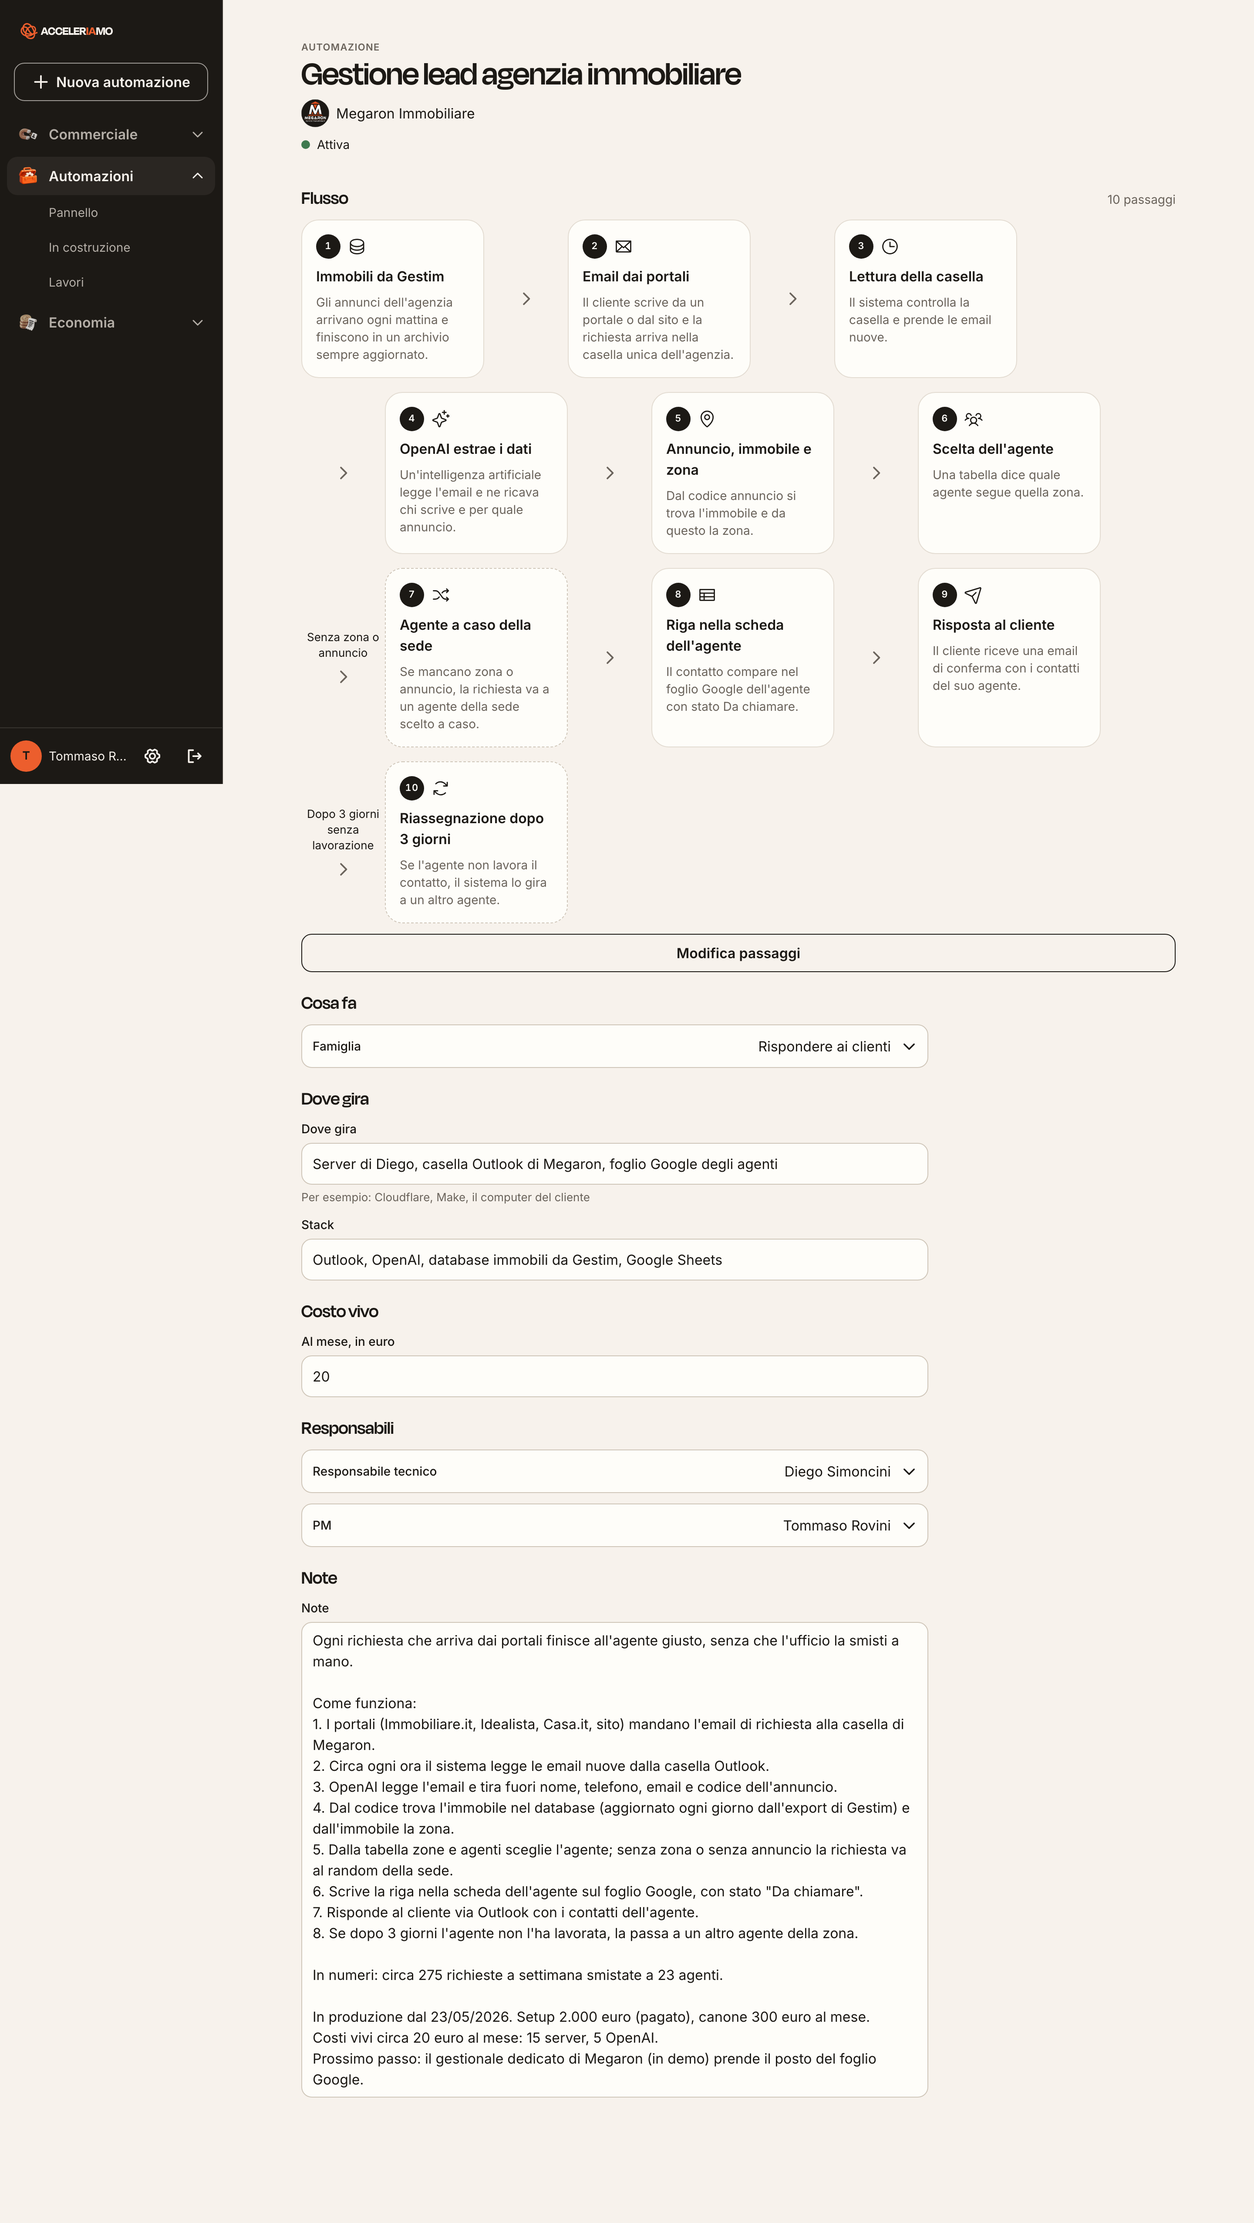
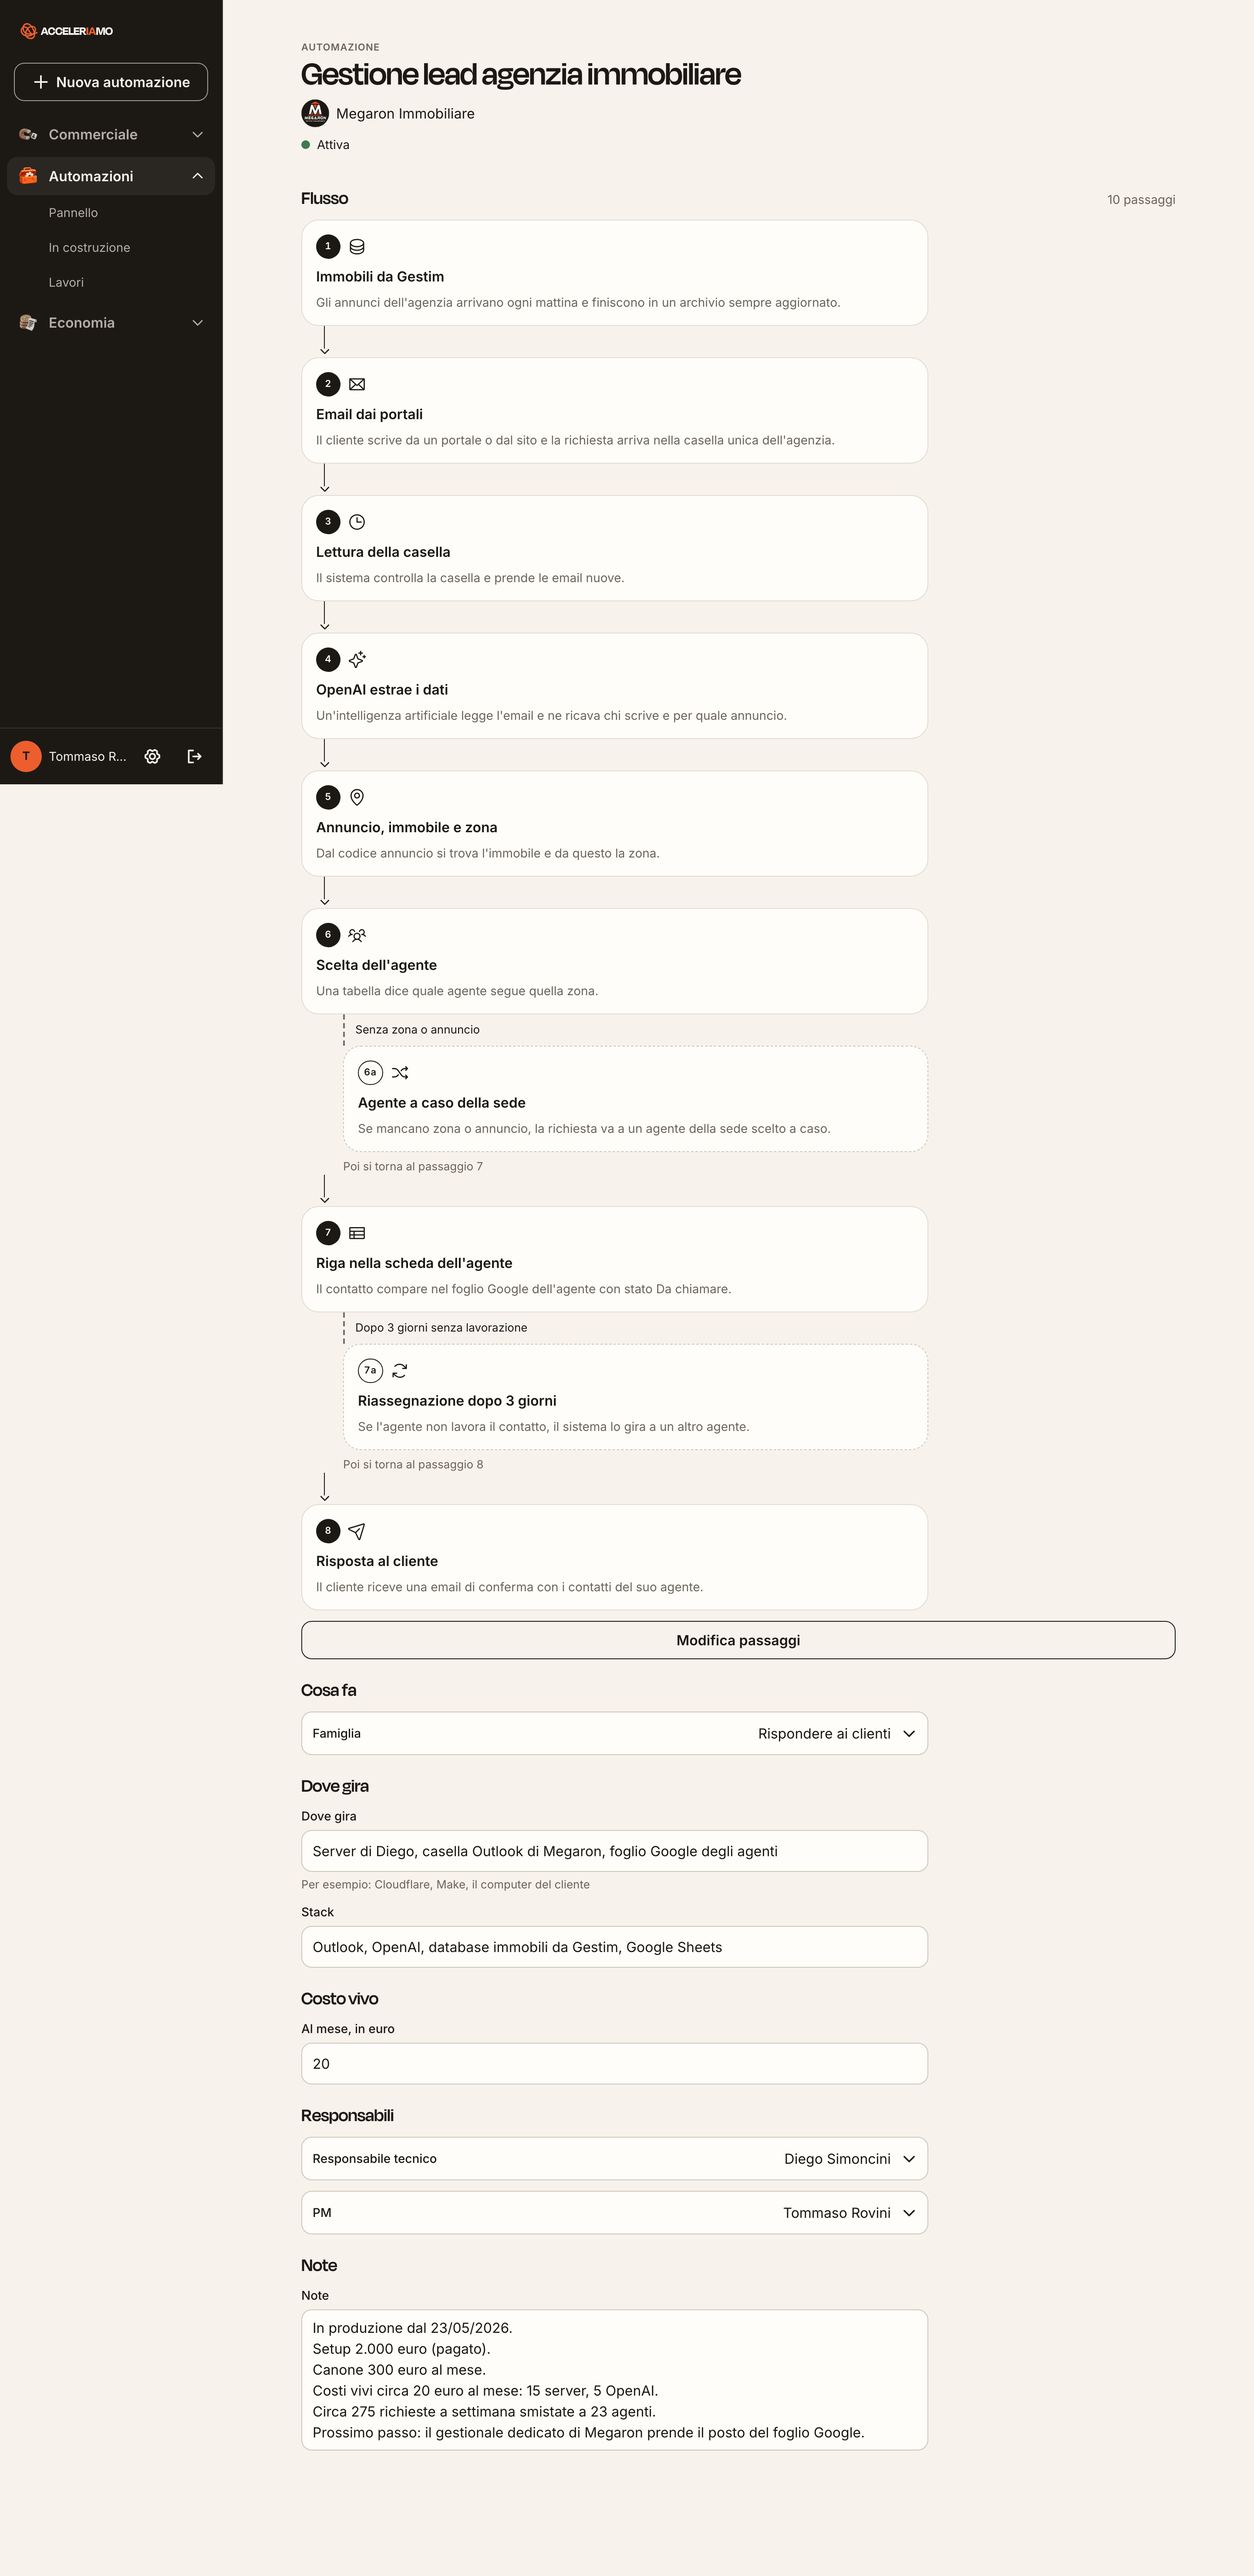
fix(automazioni): flusso in una colonna con rami sotto il passaggio d'origine, singolare nel Pannello
Claude-Session: https://claude.ai/code/session_017w2uS5WsPnidBRM6LYv1qi

diff --git a/src/pagine/automazioni/Flusso.tsx b/src/pagine/automazioni/Flusso.tsx
@@ -1,4 +1,4 @@
-import { ArrowsClockwise, CaretDown, CaretRight, Database, Envelope, Clock, Gear, MapPin, PaperPlaneTilt, Shuffle, Sparkle, Table, UsersThree } from "@phosphor-icons/react";
+import { ArrowsClockwise, CaretDown, Database, Envelope, Clock, Gear, MapPin, PaperPlaneTilt, Shuffle, Sparkle, Table, UsersThree } from "@phosphor-icons/react";
 import type { ComponentType } from "react";
 import { cx, Foglio, Selettore, type Opzione } from "../../ds";
 import type { AutomationStep } from "../../types";
@@ -20,33 +20,67 @@ export const ICONE: Record<string, { Icona: Icona; etichetta: string }> = {
 export const OPZIONI_ICONA: Opzione<string>[] = Object.entries(ICONE).map(([valore, v]) => ({ valore, etichetta: v.etichetta }));
 const iconaDi = (nome: string | null) => (nome && ICONE[nome]?.Icona) || Gear;
 
-// Il flusso: passaggi uno sotto l'altro sul telefono, in orizzontale a capo sul computer largo. Un passaggio di ramo ha il tratteggio e l'etichetta sulla linea.
-export function Flusso({ passi, onApri }: { passi: AutomationStep[]; onApri: (p: AutomationStep) => void }) {
+type Principale = { p: AutomationStep; n: number; rami: { p: AutomationStep; sigla: string }[] };
+
+// La numerazione segue l'ordine principale. Un ramo (passaggio con etichetta sulla linea) sta sotto il passaggio principale che lo precede e prende la sigla 6a, 6b...
+export function ordinaFlusso(passi: AutomationStep[]): { principali: Principale[]; sigle: Map<string, string> } {
+  const principali: Principale[] = [];
+  const sigle = new Map<string, string>();
+  for (const p of passi) {
+    const ultimo = principali[principali.length - 1];
+    if (p.branch && ultimo) {
+      const sigla = `${ultimo.n}${String.fromCharCode(97 + ultimo.rami.length)}`;
+      ultimo.rami.push({ p, sigla });
+      sigle.set(p.id, sigla);
+    } else {
+      principali.push({ p, n: principali.length + 1, rami: [] });
+      sigle.set(p.id, String(principali.length));
+    }
+  }
+  return { principali, sigle };
+}
+
+function Blocco({ p, sigla, ramo, onApri }: { p: AutomationStep; sigla: string; ramo?: boolean; onApri: (p: AutomationStep) => void }) {
+  const Icona = iconaDi(p.icon);
   return (
-    <ol aria-label="Flusso dell'automazione" className="flex flex-col items-stretch lg:flex-row lg:flex-wrap lg:items-stretch lg:gap-y-4">
-      {passi.map((p, i) => {
-        const Icona = iconaDi(p.icon);
-        return (
-          <li key={p.id} className="flex flex-col lg:flex-row lg:items-center">
-            {i > 0 && (
-              <div aria-hidden className={cx("flex items-center justify-center gap-2 self-center text-grigio", "min-h-9 flex-row lg:min-h-0 lg:w-24 lg:flex-col", !p.branch && "lg:w-10")}>
-                {p.branch && <span className="max-w-[240px] text-center text-meta text-ink lg:max-w-24">{p.branch}</span>}
-                <CaretDown size={20} weight="bold" className="lg:hidden" />
-                <CaretRight size={20} weight="bold" className="hidden lg:block" />
+    <button type="button" onClick={() => onApri(p)} aria-label={`Passaggio ${sigla}: ${p.title}. Apri il dettaglio tecnico`}
+      className={cx("flex min-h-11 w-full flex-col gap-2 rounded-blocco border bg-avorio p-4 text-left hover:bg-crema", ramo ? "border-dashed border-sabbia-2" : "border-sabbia")}>
+      <span className="flex items-center gap-2">
+        <span className={cx("inline-flex h-7 min-w-7 items-center justify-center rounded-full px-1.5 text-etichetta font-semibold tabular-nums", ramo ? "border-[1.5px] border-ink text-ink" : "bg-ink text-avorio")}>{sigla}</span>
+        <Icona size={22} weight="regular" aria-hidden />
+      </span>
+      <span className="text-corpo font-semibold">{p.title}</span>
+      <span className="text-secondaria text-grigio">{p.summary}</span>
+    </button>
+  );
+}
+
+// Una colonna sola, a ogni larghezza: i passaggi principali uniti da una linea con freccia; ogni ramo spostato a destra, sotto il passaggio da cui parte, con linea tratteggiata e la sua etichetta.
+export function Flusso({ passi, onApri }: { passi: AutomationStep[]; onApri: (p: AutomationStep) => void }) {
+  const { principali } = ordinaFlusso(passi);
+  return (
+    <ol aria-label="Flusso dell'automazione" className="flex max-w-[720px] flex-col">
+      {principali.map(({ p, n, rami }, i) => (
+        <li key={p.id} className="flex flex-col">
+          {i > 0 && (
+            <div aria-hidden className="flex h-9 flex-col items-start pl-[26px] text-ink">
+              <span className="w-px flex-1 bg-ink" />
+              <CaretDown size={14} weight="bold" className="-ml-[6px] -mt-1" />
+            </div>
+          )}
+          <Blocco p={p} sigla={String(n)} onApri={onApri} />
+          {rami.map(({ p: r, sigla }) => (
+            <div key={r.id} className="ml-[26px] flex flex-col sm:ml-12">
+              <div aria-hidden className="flex h-9 items-center gap-3">
+                <span className="h-full w-0 border-l-2 border-dashed border-ink/60" />
+                <span className="text-meta text-ink">{r.branch}</span>
               </div>
-            )}
-            <button type="button" onClick={() => onApri(p)} aria-label={`Passaggio ${i + 1}: ${p.title}. Apri il dettaglio tecnico`}
-              className={cx("flex h-full w-full min-h-11 flex-col gap-2 rounded-blocco border bg-avorio p-4 text-left hover:bg-crema lg:w-[210px]", p.branch ? "border-dashed border-sabbia-2" : "border-sabbia")}>
-              <span className="flex items-center gap-2">
-                <span className="inline-flex size-7 items-center justify-center rounded-full bg-ink text-etichetta font-semibold tabular-nums text-avorio">{i + 1}</span>
-                <Icona size={22} weight="regular" aria-hidden />
-              </span>
-              <span className="text-corpo font-semibold">{p.title}</span>
-              <span className="text-secondaria text-grigio">{p.summary}</span>
-            </button>
-          </li>
-        );
-      })}
+              <Blocco p={r} sigla={sigla} ramo onApri={onApri} />
+              <p className="pt-2 text-meta text-grigio">{i + 1 < principali.length ? `Poi si torna al passaggio ${n + 1}` : "Il flusso finisce qui"}</p>
+            </div>
+          ))}
+        </li>
+      ))}
     </ol>
   );
 }
@@ -62,7 +96,7 @@ function Voce({ etichetta, children }: { etichetta: string; children?: string | 
 }
 
 // Dettaglio tecnico di un passaggio: foglio dal basso sul telefono, pannello laterale sul computer. Un'informazione per riga.
-export function FoglioPasso({ passo, numero, onChiudi }: { passo: AutomationStep; numero: number; onChiudi: () => void }) {
+export function FoglioPasso({ passo, numero, onChiudi }: { passo: AutomationStep; numero: string; onChiudi: () => void }) {
   return (
     <Foglio aperto lato titolo={`${numero}. ${passo.title}`} onChiudi={onChiudi}>
       <p className="text-corpo">{passo.summary}</p>

diff --git a/src/pagine/automazioni/Scheda.tsx b/src/pagine/automazioni/Scheda.tsx
@@ -12,7 +12,7 @@ import { usePassi } from "../lavori/dati";
 import { useAutomazione, useRicarica } from "../dati-gestione";
 import { Sezione } from "../impostazioni/parti";
 import { useAnonimo } from "./anonimo";
-import { Flusso, FoglioPasso } from "./Flusso";
+import { Flusso, FoglioPasso, ordinaFlusso } from "./Flusso";
 import { FoglioPassaggi } from "./FoglioPassaggi";
 import { nomeCliente } from "./Pannello";
 
@@ -66,7 +66,7 @@ export function SchedaAutomazione({ id }: { id: string }) {
         {!anonimo && a.scope === "fuori_perimetro" && <span><Tag>Fuori perimetro</Tag></span>}
         <p className="flex items-center gap-2 text-secondaria"><Punto colore={a.status === "attiva" ? "verde" : a.status === "in_costruzione" ? "giallo" : "grigio"} etichetta={ETICHETTE_AUTOMAZIONE[a.status]} />{ETICHETTE_AUTOMAZIONE[a.status]}</p>
       </Intestazione>
-      <Sezione titolo="Flusso" coda={passiQ.data?.length ? `${passiQ.data.length} passaggi` : undefined}>
+      <Sezione titolo="Flusso" coda={passiQ.data?.length ? passiQ.data.length === 1 ? "1 passaggio" : `${passiQ.data.length} passaggi` : undefined}>
         {passiQ.data && passiQ.data.length > 0
           ? <Flusso passi={passiQ.data} onApri={setPasso} />
           : <p className="text-secondaria text-grigio">Il flusso non è ancora descritto.</p>}
@@ -97,7 +97,7 @@ export function SchedaAutomazione({ id }: { id: string }) {
         <AreaTesto etichetta="Note" cresce defaultValue={a.notes ?? ""} onBlur={(e) => alBlur("notes", e.target.value)} />
       </Sezione>
       </div>
-      {passo && passiQ.data && <FoglioPasso passo={passo} numero={passiQ.data.indexOf(passo) + 1} onChiudi={() => setPasso(null)} />}
+      {passo && passiQ.data && <FoglioPasso passo={passo} numero={ordinaFlusso(passiQ.data).sigle.get(passo.id) ?? ""} onChiudi={() => setPasso(null)} />}
       {modifica && <FoglioPassaggi automazioneId={id} iniziali={passiQ.data ?? []} onChiudi={() => setModifica(false)} />}
       {a.status === "in_costruzione" && (
         <div className="sticky bottom-20 md:bottom-4">

diff --git a/src/pagine/automazioni/Pannello.tsx b/src/pagine/automazioni/Pannello.tsx
@@ -52,7 +52,7 @@ export function Pannello({ ora: oraFissa }: { ora?: number } = {}) {
       <Intestazione titolo="Automazioni" numero={totali.attive} coda={totali.attive === 1 ? "attiva" : "attive"} eyebrow={eyebrow} />
       {interruttore}
       <div className="grid gap-1 rounded-blocco border border-sabbia bg-avorio p-5">
-        <p className="text-corpo tabular-nums">{`${totali.attive} attive`}</p>
+        <p className="text-corpo tabular-nums">{totali.attive === 1 ? "1 attiva" : `${totali.attive} attive`}</p>
         <p className="text-corpo tabular-nums">{`${totali.inCostruzione} in costruzione`}</p>
         <p className="text-corpo tabular-nums">{`${euro(totali.costiViviCents)} di costi vivi al mese`}</p>
       </div>
